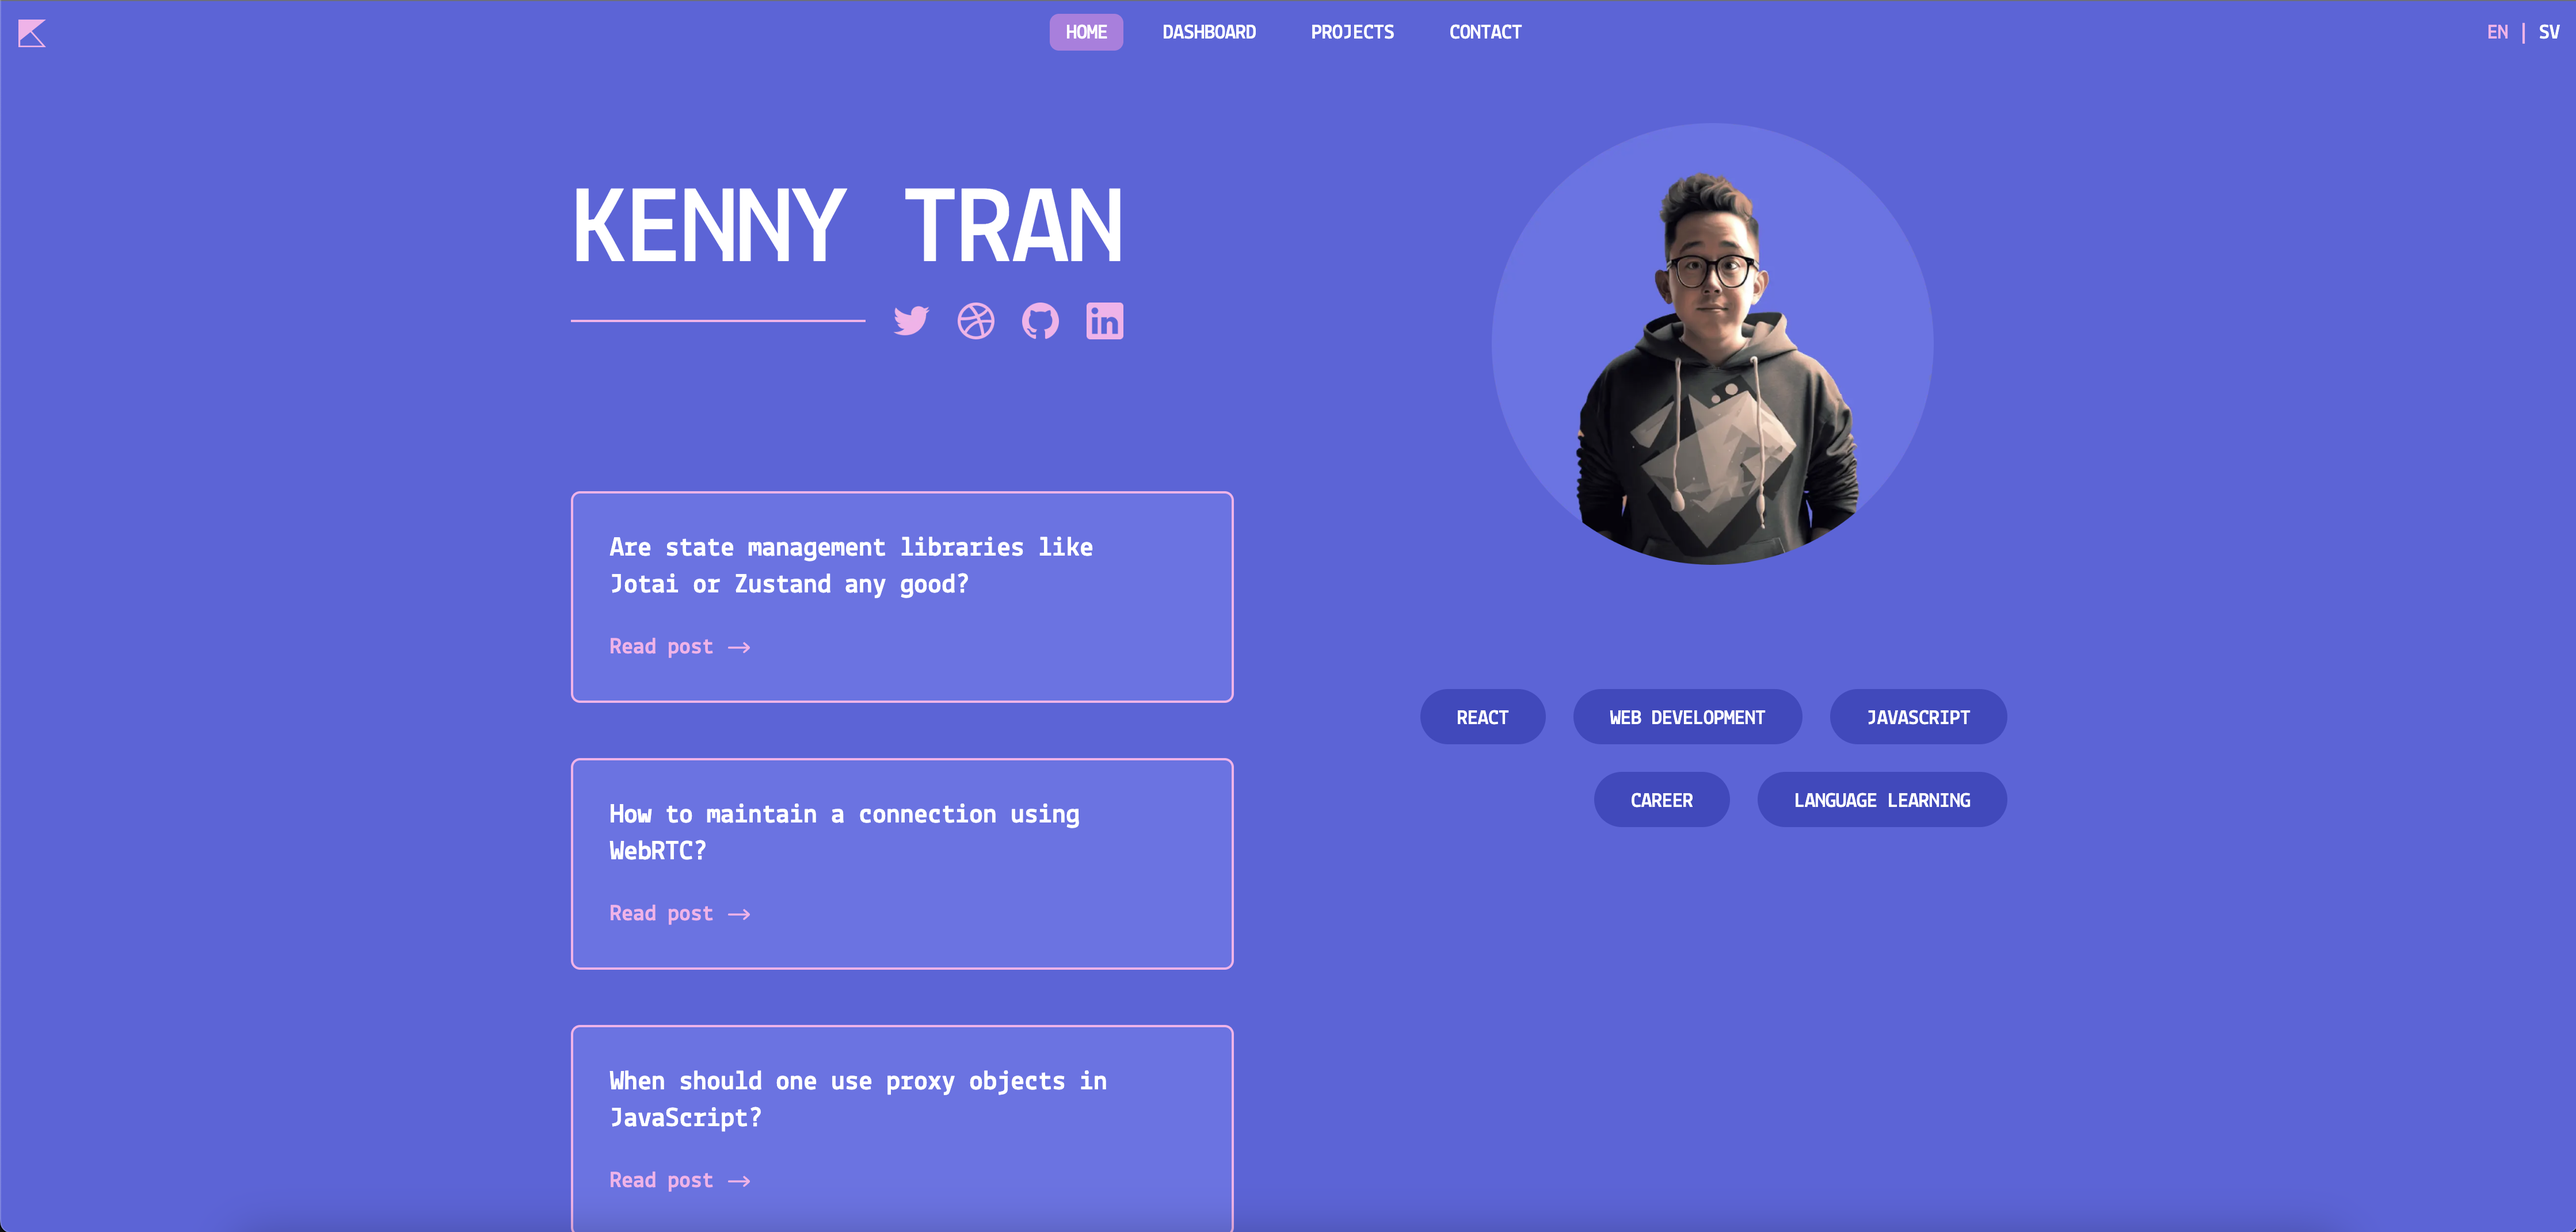
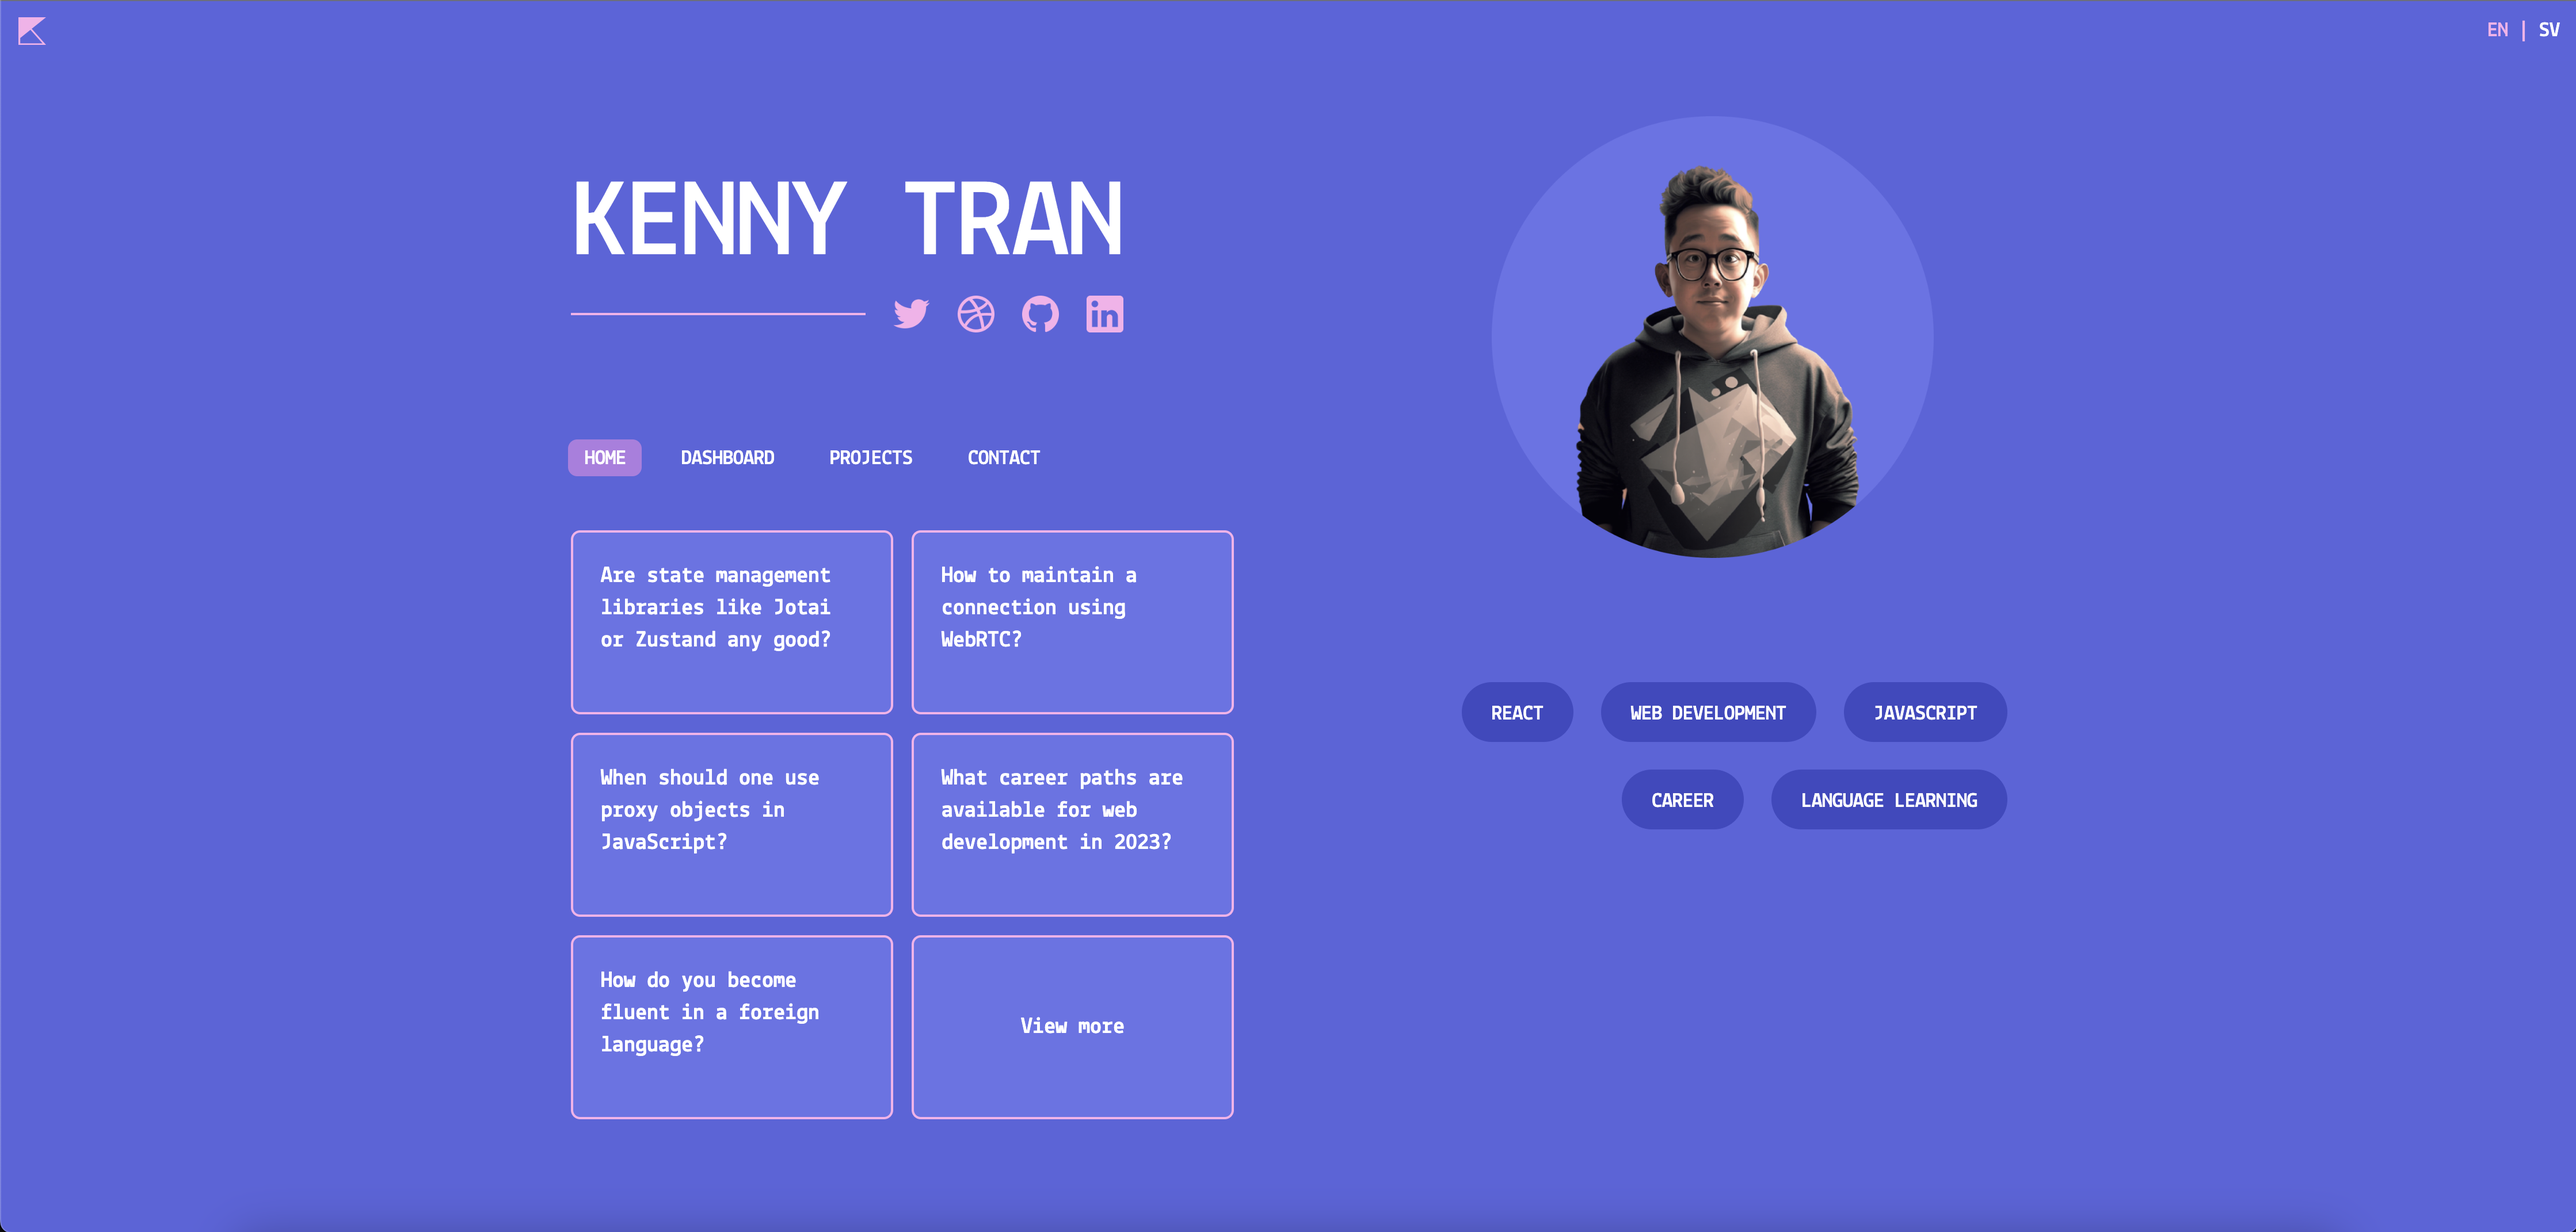
refine new design

diff --git a/src/pages/index.tsx b/src/pages/index.tsx
@@ -13,10 +13,35 @@ import { NextSeo } from "next-seo";
 import Link from "next/link";
 import { useRouter } from "next/router";
 import { Dispatch, SetStateAction } from "react";
+import { CalendarDaysIcon, HandRaisedIcon } from "@heroicons/react/24/outline";
 
 const tagAtom = atomWithStorage<string[]>("tags", []);
 
+const projects = [
+  {
+    name: "Digital garden",
+    href: "https://github.com/ktra99/digital-garden",
+  },
+  {
+    name: "To do app",
+    href: "https://github.com/ktra99/todo",
+  },
+  {
+    name: "Ecommerce template",
+    href: "https://github.com/ktra99/ecommerce",
+  },
+  {
+    name: "Geoguessr inspired game",
+    href: "https://github.com/ktra99/geo",
+  },
+  {
+    name: "Bank ID mockup",
+    href: "https://github.com/ktra99/bankid",
+  },
+];
+
 function Modal() {
+  const { locale } = useRouter();
   return (
     <motion.div
       layout
@@ -37,13 +62,18 @@ function Modal() {
       }}
     >
       <div className="relative h-full min-h-[10rem] rounded-lg border-2 border-[#FAB0EB] bg-[#6973E9] p-6 transition duration-300">
-        <div className="max-w-[30rem] space-y-6">
-          <button
-            type="button"
-            className="absolute inset-0 z-20 flex items-center justify-center rounded-lg"
-          >
-            <ArrowsPointingOutIcon className="h-6 w-6 text-white xs:h-10 xs:w-10" />
-          </button>
+        <div className="flex h-full max-w-[30rem] items-center justify-center space-y-6">
+          <h2 className="text-xs font-bold text-white xs:text-base sm:text-xl">
+            {locale === "en" ? "View more" : "Visa mer"}
+          </h2>
+          <div className="block text-xl font-semibold">
+            <button
+              type="button"
+              className="group absolute inset-0 z-20 flex items-center justify-center rounded-lg transition-all duration-300 hover:bg-black hover:bg-opacity-60 hover:backdrop-blur-sm"
+            >
+              <ArrowsPointingOutIcon className="h-6 w-6 text-white opacity-0 transition-all duration-300 group-hover:opacity-100 xs:h-10 xs:w-10" />
+            </button>
+          </div>
         </div>
       </div>
     </motion.div>
@@ -100,7 +130,7 @@ function DesktopNav({
             DASHBOARD
           </Link>
           <Link
-            href="#"
+            href="#projects"
             className="relative"
             onMouseEnter={() => {
               setX(13.2);
@@ -110,7 +140,7 @@ function DesktopNav({
             PROJECTS
           </Link>
           <Link
-            href="#"
+            href="mailto:kennytran.dev@outlook.com"
             className="relative"
             onMouseEnter={() => {
               setX(20.65);
@@ -156,7 +186,7 @@ function DesktopNav({
             DASHBOARD
           </Link>
           <Link
-            href="#"
+            href="#projects"
             className="relative"
             onMouseEnter={() => {
               setX(12.75);
@@ -166,7 +196,7 @@ function DesktopNav({
             PROJEKT
           </Link>
           <Link
-            href="#"
+            href="mailto:kennytran.dev@outlook.com"
             className="relative"
             onMouseEnter={() => {
               setX(19.5);
@@ -235,10 +265,10 @@ function Post({ post }: { post: PostMeta }) {
           <Link
             locale="en"
             href={"/" + locale + "/posts/" + post.slug}
-            className="block text-xl font-semibold text-[#FAB0EB]"
+            className="block text-xl font-semibold"
           >
             <span className="group absolute inset-0 z-20 flex items-center justify-center rounded-lg transition-all duration-300 hover:bg-black hover:bg-opacity-60 hover:backdrop-blur-sm">
-              <ArrowTopRightOnSquareIcon className="h-10 w-10 opacity-0 transition-all duration-300 group-hover:opacity-100" />
+              <ArrowTopRightOnSquareIcon className="h-10 w-10 text-white opacity-0 transition-all duration-300 group-hover:opacity-100" />
             </span>
           </Link>
         </div>
@@ -404,7 +434,7 @@ export default function Home({
                         <Tag
                           key={post.slug}
                           post={post}
-                          className="my-1 mr-2 rounded-md px-4 pt-2 pb-1 font-bold text-white transition duration-300 sm:mx-0 sm:my-3"
+                          className="my-1 mr-2 rounded-md border-2 border-transparent px-4 pt-2 pb-1 font-bold text-white transition-all duration-300 hover:border-white sm:mx-0 sm:my-3"
                         />
                       ))
                   : posts
@@ -413,7 +443,7 @@ export default function Home({
                         <Tag
                           key={post.slug}
                           post={post}
-                          className="my-1 mr-2 rounded-md px-4 pt-2 pb-1 font-bold text-white transition duration-300 sm:mx-0 sm:my-3"
+                          className="my-1 mr-2 rounded-md border-2 border-transparent px-4 pt-2 pb-1 font-bold text-white transition-all duration-300 hover:border-white sm:mx-0 sm:my-3"
                         />
                       ))}
               </div>
@@ -438,7 +468,7 @@ export default function Home({
                         <Tag
                           key={post.slug}
                           post={post}
-                          className="my-3 rounded-full px-8 pt-3 pb-2 font-bold text-white transition duration-300"
+                          className="my-3 rounded-full border-2 border-transparent px-6 pt-3 pb-2 font-bold text-white transition-all duration-300 hover:border-white"
                         />
                       ))
                   : posts
@@ -447,10 +477,104 @@ export default function Home({
                         <Tag
                           key={post.slug}
                           post={post}
-                          className="my-3 rounded-full px-8 pt-3 pb-2 font-bold text-white transition duration-300"
+                          className="my-3 rounded-full border-2 border-transparent px-6 pt-3 pb-2 font-bold text-white transition-all duration-300 hover:border-white"
                         />
                       ))}
               </div>
+            </div>
+          </div>
+        </div>
+        <div id="projects" className="mx-auto my-24 w-full max-w-7xl px-4">
+          <div className="divide-y divide-white">
+            <h2 className="text-4xl font-bold leading-10 tracking-tight text-white">
+              {locale === "en" ? "Projects" : "Projekt"}
+            </h2>
+            <dl className="mt-10 space-y-6 divide-y divide-white">
+              {projects.map((project) => (
+                <dt key={project.href} className="pt-6">
+                  <div className="group relative flex w-full items-start justify-between text-left text-white">
+                    <span className="font-semibold leading-7 group-hover:text-[#FAB0EB] sm:text-xl">
+                      {project.name}
+                    </span>
+                    <a
+                      href={project.href}
+                      className="absolute inset-0 z-20 flex h-7 items-center group-hover:text-[#FAB0EB]"
+                      target="_blank"
+                      rel="noreferrer"
+                    >
+                      <ArrowTopRightOnSquareIcon className="ml-auto h-6 w-6" />
+                    </a>
+                  </div>
+                </dt>
+              ))}
+            </dl>
+          </div>
+        </div>
+        <div className="relative isolate my-36 overflow-hidden">
+          <div className="mx-auto max-w-7xl px-4">
+            <div className="mx-auto grid max-w-2xl grid-cols-1 gap-y-16 gap-x-8 lg:max-w-none lg:grid-cols-2">
+              <div className="max-w-xl lg:max-w-lg">
+                <h2 className="text-3xl font-bold tracking-tight text-white sm:text-4xl">
+                  {locale === "en"
+                    ? "Subscribe to my newsletter."
+                    : "Prenumerera på mitt nyhetsbrev."}
+                </h2>
+                <p className="mt-4 text-lg leading-8 text-gray-300">
+                  Nostrud amet eu ullamco nisi aute in ad minim nostrud
+                  adipisicing velit quis. Duis tempor incididunt dolore.
+                </p>
+                <div className="mt-6 flex max-w-md gap-x-4">
+                  <label htmlFor="email-address" className="sr-only">
+                    Email address
+                  </label>
+                  <input
+                    id="email-address"
+                    name="email"
+                    type="email"
+                    autoComplete="email"
+                    required
+                    className="min-w-0 flex-auto rounded-md border-2 border-transparent bg-white/5 px-3.5 py-2 text-white placeholder-white shadow-sm outline-none ring-1 ring-inset ring-white/10 transition-all duration-300 focus:ring-2 focus:ring-inset focus:ring-white sm:text-sm sm:leading-6"
+                    placeholder="Enter your email"
+                  />
+                  <button
+                    type="submit"
+                    className="flex-none rounded-md border-2 border-transparent bg-[#3F49C2] py-2.5 px-3.5 text-sm font-semibold text-white shadow-sm transition-all duration-300 hover:border-white focus-visible:outline focus-visible:outline-2 focus-visible:outline-offset-2 focus-visible:outline-[#3F49C2]"
+                    disabled
+                  >
+                    Subscribe
+                  </button>
+                </div>
+              </div>
+              <dl className="grid grid-cols-1 gap-x-8 gap-y-10 sm:grid-cols-2 lg:pt-2">
+                <div className="flex flex-col items-start">
+                  <div className="rounded-md bg-white/5 p-2 ring-1 ring-white/10">
+                    <CalendarDaysIcon
+                      className="h-6 w-6 text-white"
+                      aria-hidden="true"
+                    />
+                  </div>
+                  <dt className="mt-4 font-semibold text-white">
+                    Weekly articles
+                  </dt>
+                  <dd className="mt-2 leading-7 text-gray-300">
+                    Non laboris consequat cupidatat laborum magna. Eiusmod non
+                    irure cupidatat duis commodo amet.
+                  </dd>
+                </div>
+                <div className="flex flex-col items-start">
+                  <div className="rounded-md bg-white/5 p-2 ring-1 ring-white/10">
+                    <HandRaisedIcon
+                      className="h-6 w-6 text-white"
+                      aria-hidden="true"
+                    />
+                  </div>
+                  <dt className="mt-4 font-semibold text-white">No spam</dt>
+                  <dd className="mt-2 leading-7 text-gray-300">
+                    Officia excepteur ullamco ut sint duis proident non
+                    adipisicing. Voluptate incididunt anim.
+                  </dd>
+                </div>
+              </dl>
             </div>
           </div>
         </div>

diff --git a/src/components/nav.tsx b/src/components/nav.tsx
@@ -20,11 +20,11 @@ const mobileNavigation = [
   },
   {
     icon: RectangleStackIcon,
-    href: "#",
+    href: "#projects",
   },
   {
     icon: EnvelopeIcon,
-    href: "#",
+    href: "mailto:kennytran.dev@outlook.com",
   },
 ];
 

diff --git a/src/styles/globals.css b/src/styles/globals.css
@@ -48,6 +48,10 @@ pre code{
   border-radius: 0.75rem !important;
 }
 
+html{
+  scroll-behavior: smooth !important;
+}
+
 body{
   background-color: #5A64DE;
   font-family: 'Lekton', sans-serif;

diff --git a/README.md b/README.md
@@ -8,9 +8,11 @@ pnpm dev
 ```
 
 ## About
+
 This is my digital garden built on Next.js and MDX. Feel free to contribute and use it for inspiration.
 
 ## Features
+
 - Markdown support
 - Translation support
 - SSG with getStaticProps
@@ -20,6 +22,7 @@ This is my digital garden built on Next.js and MDX. Feel free to contribute and 
 - Comment section (utteranc.es)
 
 ## Stack
+
 - Next.js
 - Typescript
 - Tailwind CSS
@@ -29,10 +32,11 @@ This is my digital garden built on Next.js and MDX. Feel free to contribute and 
 - Rehype-highlight
 
 ## To-do
+
 - [x] Navigation
 - [x] Dashboard
-- [ ] Projects page 
-- [ ] Contact form
+- [x] Projects section
+- [x] Contact link
 
 ## License
 
